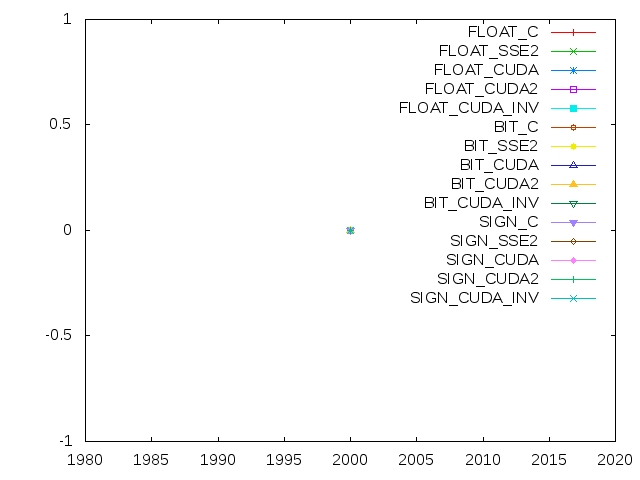
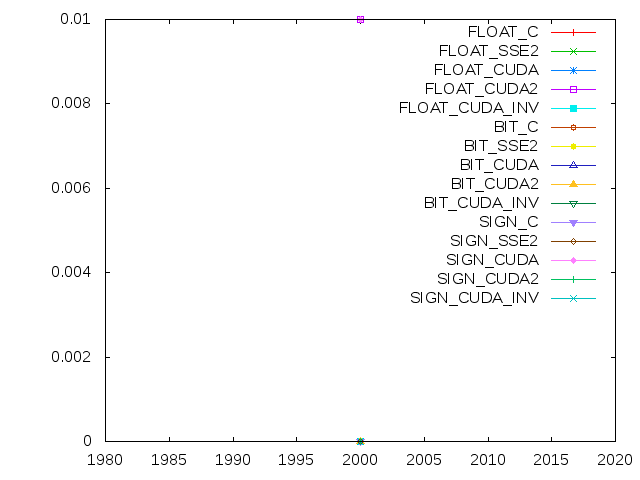
Restructuring dirs (changing test for log and making an images dir)
git-svn-id: svn://svn.code.sf.net/p/preann/code@196 4c7faa8c-6334-4fdc-ad45-69cacb9c43d3

diff --git a/preann/src/common/plot.cpp b/preann/src/common/plot.cpp
@@ -15,6 +15,40 @@ Plot::~Plot()
 {
 }
 
+int vectorTypeToPointType(VectorType vectorType)
+{
+// pt gives a particular point type: 1=diamond 2=+ 3=square 4=X 5=triangle 6=*
+// postscipt: 1=+, 2=X, 3=*, 4=square, 5=filled square, 6=circle,
+//            7=filled circle, 8=triangle, 9=filled triangle, etc.
+	switch (vectorType){
+		case FLOAT:
+			return 2;
+		case BYTE:
+			return 6;
+		case BIT:
+			return 4;
+		case SIGN:
+			return 8;
+	}
+}
+
+int implTypeToLineType(ImplementationType implementationType)
+{
+// lt is for color of the points: -1=black 1=red 2=grn 3=blue 4=purple 5=aqua 6=brn 7=orange 8=light-brn
+	switch (implementationType){
+		case C:
+			return 1;
+		case SSE2:
+			return 2;
+		case CUDA:
+			return 3;
+		case CUDA2:
+			return 5;
+		case CUDA_INV:
+			return -1;
+	}
+}
+
 float Plot::plot(string path, ClassID classID, Method method, unsigned repetitions)
 {
 	float total = 0;
@@ -24,7 +58,7 @@ float Plot::plot(string path, ClassID classID, Method method, unsigned repetitio
 	string plotPath = path + Plot::toString(classID, method) + ".plt";
 	FILE* plotFile = openFile(plotPath);
 
-	string outputPath = path + Plot::toString(classID, method) + ".png";
+	string outputPath = path + "images/" + Plot::toString(classID, method) + ".png";
 	fprintf(plotFile, "set terminal png \n");
 	fprintf(plotFile, "set output \"%s\" \n", outputPath.data());
 	fprintf(plotFile, "plot ");
@@ -32,14 +66,14 @@ float Plot::plot(string path, ClassID classID, Method method, unsigned repetitio
 	unsigned functionNum = 2;
 	for (vectorType = (VectorType) 0; vectorType < VECTOR_TYPE_DIM; vectorType = (VectorType) ((unsigned)vectorType + 1) ) if (vectorTypes[vectorType]){
 		for (implementationType = (ImplementationType) 0; implementationType < IMPLEMENTATION_TYPE_DIM; implementationType = (ImplementationType) ((unsigned)implementationType + 1)) if (implementationTypes[implementationType]) {
-			printf(" vectorTypeToString() %s vectorType %d \n", vectorTypeToString().data(), (unsigned)vectorType);
-			printf(" implementationTypeToString() %s implementationType %d \n", implementationTypeToString().data(), (unsigned)implementationType);
 			string functionName = vectorTypeToString() + "_" + implementationTypeToString();
 			fprintf(dataFile, " %s ", functionName.data());
 			if (functionNum > 2){
 				fprintf(plotFile, ", ");
 			}
-			fprintf(plotFile, "     \"%s\" using 1:%d title \"%s\" with linespoints", dataPath.data(), functionNum++, functionName.data());
+			fprintf(plotFile, "     \"%s\" using 1:%d title \"%s\" with linespoints lt %d pt %d",
+					dataPath.data(), functionNum++, functionName.data(),
+					implTypeToLineType(implementationType), vectorTypeToPointType(vectorType));
 		}
 	}
 	fprintf(plotFile, "\n");

diff --git a/preann/src/common/test.cpp b/preann/src/common/test.cpp
@@ -150,7 +150,7 @@ unsigned Test::doMethodConnection(Connection* connection, Method method)
 	}
 	break;
 	default:
-		string error = "There's no such method defined to test for Connection.";
+		string error = "The method " + methodToString(method) + " is not defined to test for Connection.";
 		throw error;
 
 	}
@@ -225,7 +225,7 @@ unsigned Test::doMethodVector(Vector* vector, Method method)
 	break;
 
 	default:
-		string error = "There's no such method defined to test for Vector.";
+		string error = "The method " + methodToString(method) + " is not defined to test for Vector.";
 		throw error;
 	}
 	return differencesCounter;
@@ -665,7 +665,7 @@ string Test::classToString(ClassID classID)
 		case VECTOR: toReturn = "VECTOR";			break;
 		case CONNECTION: toReturn = "CONNECTION";	break;
 		default:
-			string error = "There's no such class to plot.";
+			string error = "There's no such class to test.";
 			throw error;
 
 	}
@@ -676,7 +676,9 @@ string Test::methodToString(Method method)
 {
 	string toReturn;
 	switch (method){
-
+		case COPYFROM: 			toReturn = "COPYFROM";			break;
+		case COPYTO: 			toReturn = "COPYTO";			break;
+		case CLONE: 			toReturn = "CLONE";				break;
 		case COPYFROMINTERFACE: toReturn = "COPYFROMINTERFACE";	break;
 		case COPYTOINTERFACE: 	toReturn = "COPYTOINTERFACE";	break;
 		case ACTIVATION: 		toReturn = "ACTIVATION";		break;
@@ -684,7 +686,7 @@ string Test::methodToString(Method method)
 		case MUTATE: 			toReturn = "MUTATE";			break;
 		case CROSSOVER: 		toReturn = "CROSSOVER";			break;
 		default:
-			string error = "There's no such method to plot.";
+			string error = "There's no such method to test.";
 			throw error;
 
 	}

diff --git a/preann/src/test/chronoVectors.cpp b/preann/src/test/chronoVectors.cpp
@@ -15,17 +15,17 @@ int main(int argc, char *argv[])
 	string path = "/home/timon/workspace/preann/output/plotData/";
 
 	Plot plot;
-	plot.fromToBySize(2000, 2000, 100);
+	plot.fromToBySize(100, 10000, 100);
 	plot.fromToByOutputSize(100, 100, 100);
 	plot.disableVectorType(BYTE);
 	plot.printParameters();
 
 	try {
-//		plot.plot(path, VECTOR, COPYFROMINTERFACE, 10000);
+		plot.plot(path, VECTOR, COPYFROMINTERFACE, 1000);
 //		plot.plot(path, VECTOR, COPYTOINTERFACE, 10000);
-		plot.plot(path, VECTOR, ACTIVATION, 1);
-
-		plot.plot(path, CONNECTION, CALCULATEANDADDTO, 1);
+//		plot.plot(path, VECTOR, ACTIVATION, 10);
+//
+//		plot.plot(path, CONNECTION, CALCULATEANDADDTO, 10);
 //		plot.plot(path, CONNECTION, MUTATE, 100);
 //		plot.plot(path, CONNECTION, CROSSOVER, 1);
 

diff --git a/preann/src/common/util.h b/preann/src/common/util.h
@@ -33,6 +33,7 @@ typedef enum {
 	CONNECTION
 } ClassID;
 typedef enum {
+	MEM_LOSSES,
 	ACTIVATION,
 	COPYFROMINTERFACE,
 	COPYTOINTERFACE,
